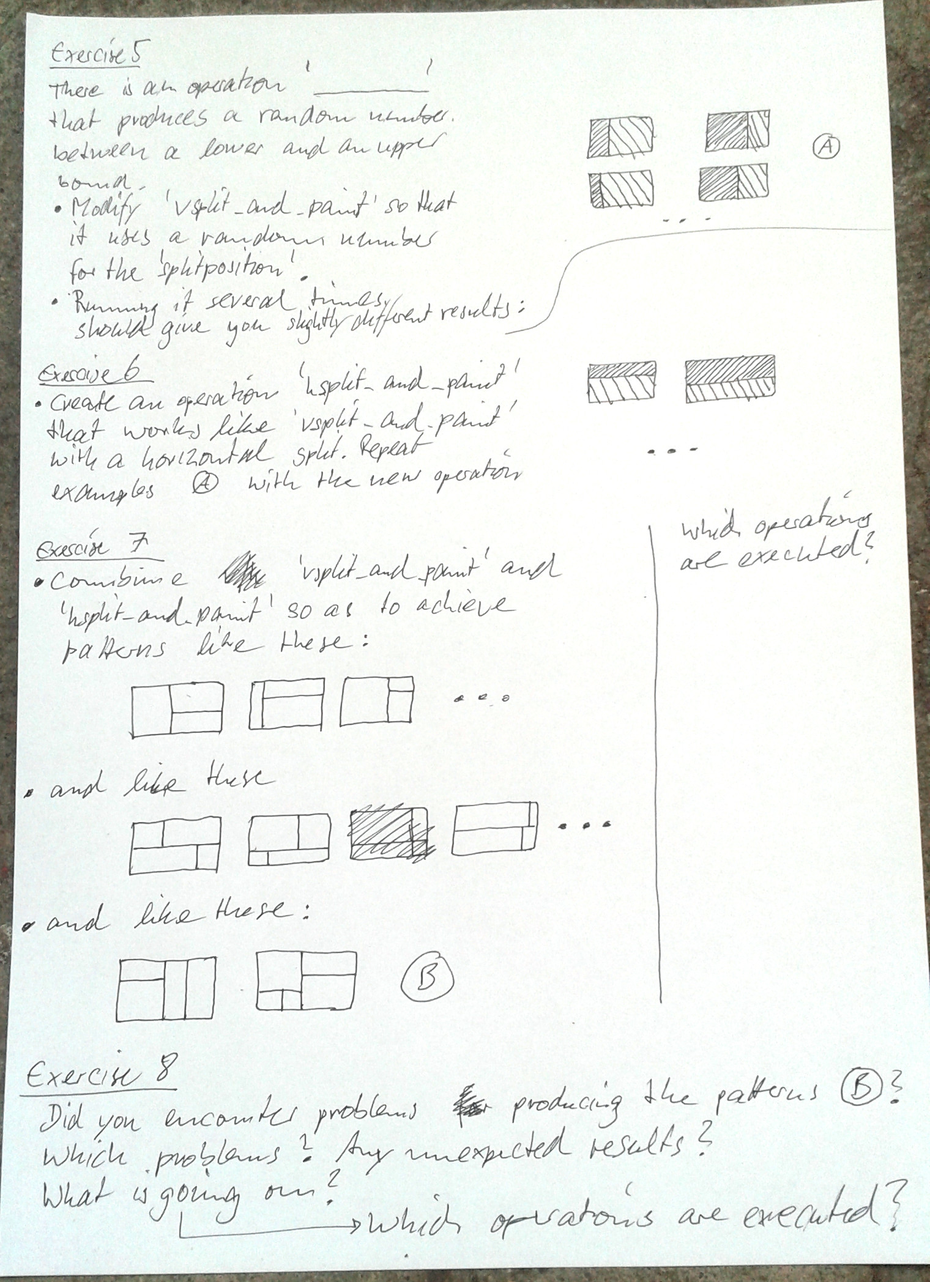
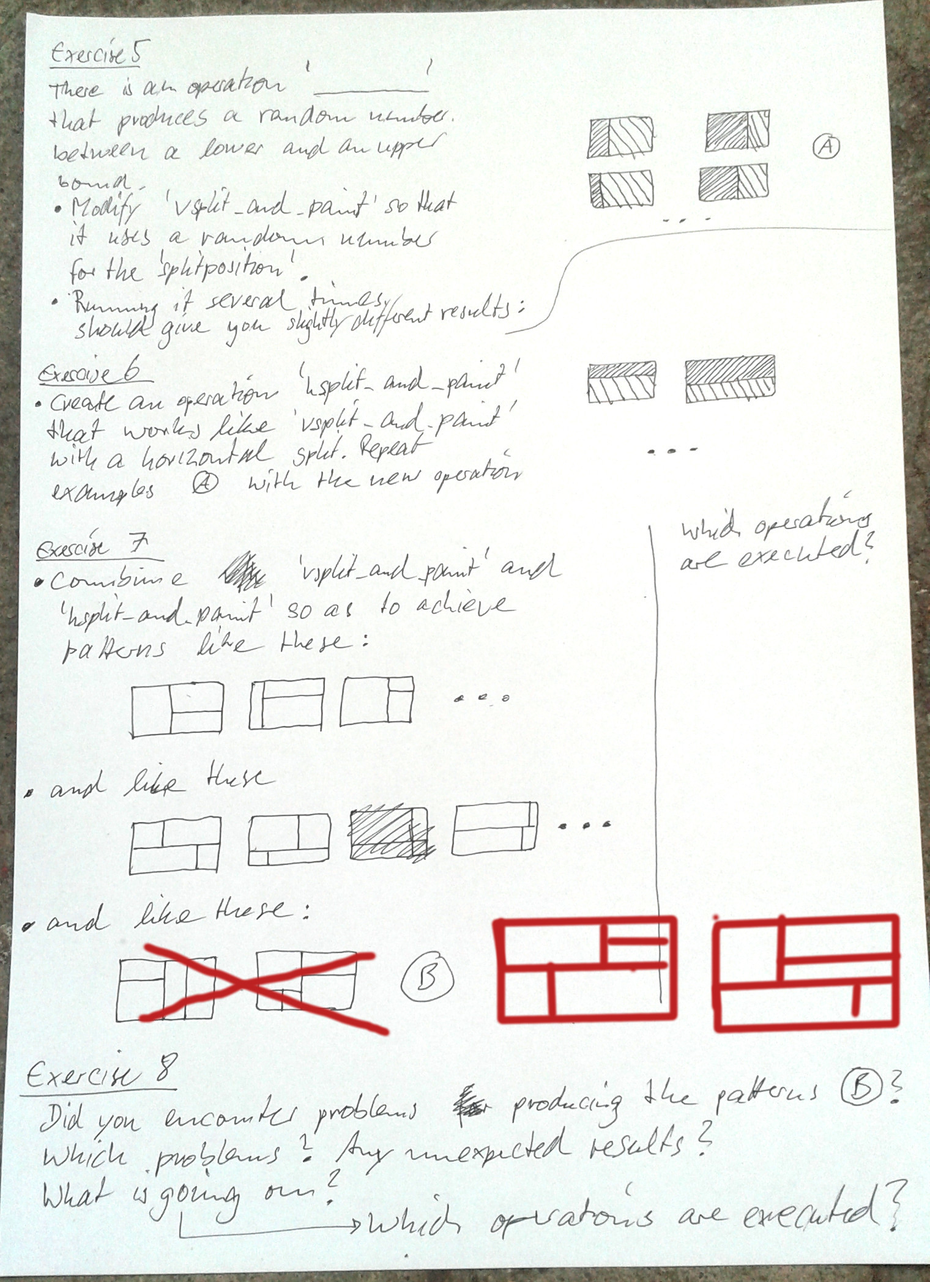
Mondrian: Outline instrct. steps, code links.

Changed region(s): [[0.5257, 0.7133, 0.9895, 0.8063], [0.1546, 0.7443, 0.4329, 0.8063], [0.1546, 0.7133, 0.1855, 0.7443]]

diff --git a/workshops/mondrian-pattern/README.md b/workshops/mondrian-pattern/README.md
@@ -90,17 +90,189 @@ There are other ways of achieving similar or the same type of pattern. Also, we 
 Exercises
 ---------
 
+Get rusty fingers now!
+
 * Make a new project (TODO: link to installfest instructuins)
-* Replace main.rs and Cargo.toml with the following starting point (TODO: link)
+* Open the files `main.rs` (in the subfoler `src`) and `Cargo.toml` in your text editor.
+* Replace all content in the open files with the content of the respective files linked here:
+    * [new main.rs](https://raw.githubusercontent.com/rust-community/rustbridge/389c0502113503eccae6626561920083959cbe07/workshops/mondrian-pattern/codebase/mondpaint/src/main.rs)
+    * [new Cargo.toml](https://raw.githubusercontent.com/rust-community/rustbridge/389c0502113503eccae6626561920083959cbe07/workshops/mondrian-pattern/codebase/mondpaint/Cargo.toml)
+* Save the files in your editor.
 * Execute the program and make sure you see a minimal mondrian pattern, i.e. a red rectangle.
 
-TODO: finalise instructions as sketched-out here
+![](images/fig00_exercise-start.jpg)
 
+
+### Exercise 1: Make one vertical split
+![](images/fig01_onevertical.jpg)
+
+
+#### [Instruction] 1
+
+
+#### [Snapshot] 1
+[view changes](https://github.com/rust-community/rustbridge/commit/754dc60730f0fd16f6001785aee533128326d6b5)
+|
+[download main.rs](https://raw.githubusercontent.com/rust-community/rustbridge/754dc60730f0fd16f6001785aee533128326d6b5/workshops/mondrian-pattern/codebase/mondpaint/src/main.rs)
+
+
+### Exercise 2:
+![](images/fig02_onevertical-1third-2thirds.jpg)
+
+#### [Snapshot] 2
+[view changes](https://github.com/rust-community/rustbridge/commit/1dcdf3125943137fb231e9514c73b5136e1206cb)
+|
+[download main.rs](https://github.com/rust-community/rustbridge/commit/1dcdf3125943137fb231e9514c73b5136e1206cb/workshops/mondrian-pattern/codebase/mondpaint/src/main.rs)
+
+
+### Exercise 3:
+
+TODO: Check example for exercise 3/4 -- there is one snapshot for two exercises, currently.
+
+![](images/fig03_colour-as-parameter.jpg)
+
+#### [Snapshot] 3
+[view changes](https://github.com/rust-community/rustbridge/commit/c24797b80d1f0c9039c722159e137dc531f140fb)
+|
+[download main.rs](https://github.com/rust-community/rustbridge/commit/c24797b80d1f0c9039c722159e137dc531f140fb/workshops/mondrian-pattern/codebase/mondpaint/src/main.rs)
+
+
+### Exercise 4:
+![](images/fig04_two-different-colours.jpg)
+
+#### [Snapshot] 4
+[view changes](https://github.com/rust-community/rustbridge/commit/c24797b80d1f0c9039c722159e137dc531f140fb)
+|
+[download main.rs](https://github.com/rust-community/rustbridge/commit/c24797b80d1f0c9039c722159e137dc531f140fb/workshops/mondrian-pattern/codebase/mondpaint/src/main.rs)
+
+
+#### [Testing] Exercise 4:  
+Error message after adding an extra parameter to `paint_rectangle`:
+```
+Compiling mondpaint v0.1.0 (file:///home/broe/projets/rustbridge/workshops/mondrian-pattern/codebase/mondpaint)
+src/main.rs:80:9: 80:57 error: this function takes 6 parameters but 5 parameters were supplied [E0061]
+src/main.rs:80         paint_rectangle(x, y, splitpos, height, chnleft)
+                    ^~~~~~~~~~~~~~~~~~~~~~~~~~~~~~~~~~~~~~~~~~~~~~~~
+src/main.rs:80:9: 80:57 help: run `rustc --explain E0061` to see a detailed explanation
+src/main.rs:80:9: 80:57 note: the following parameter types were expected: f64, f64, f64, f64, [f32; 4], std::sync::mpsc::Sender<([f64; 4], [f32; 4])>
+src/main.rs:85:9: 85:73 error: this function takes 6 parameters but 5 parameters were supplied [E0061]
+src/main.rs:85         paint_rectangle(x+splitpos, y, width-splitpos, height, chnright)
+                    ^~~~~~~~~~~~~~~~~~~~~~~~~~~~~~~~~~~~~~~~~~~~~~~~~~~~~~~~~~~~~~~~
+src/main.rs:85:9: 85:73 help: run `rustc --explain E0061` to see a detailed explanation
+src/main.rs:85:9: 85:73 note: the following parameter types were expected: f64, f64, f64, f64, [f32; 4], std::sync::mpsc::Sender<([f64; 4], [f32; 4])>
+error: aborting due to 2 previous errors
+error: Could not compile `mondpaint`.
+```
+
+
+### Exercise 5:
+![](images/fig05_random-splitpostition.jpg)
+
+For Exercice 5 we will use random numbers to make things more interesting.
+
+A coupple of things are already prepared in the example.
+There is a new operation for generating random numbers available: `rng.gen_range(0.0, 20.0)` will produce a random number between `0.0` and `20.0`.
+
+
+Currently this is deactivated by placing them in a _comment_:
+```
+// the remainder of a line after a double forward slash will be ignored
+
+/*
+Furthermore, everything between slash star and
+star slash is also ignored, even over multiple lines
+*/
+```
+
+#### [Instruction] 5
+1. Uncomment lines ____: `use rand::Rng;` and ____ `let mut rng = rand::thread_rng();   //init a random number generator`.
+
+2. Modify the operation `vsplit_and_paint` to generate a random split position. The value to be used as split position is calculated in line 76 `let splitpos = rng.gen_range(0.0, width);` Use the operation we just activated `rng.gen_range(...)`.
+
+#### [Snapshot] 5
+[view changes](https://github.com/rust-community/rustbridge/commit/30c7b9c62453ab456029ca480e07d7e33b5c0f93)
+|
+[download main.rs](https://github.com/rust-community/rustbridge/commit/30c7b9c62453ab456029ca480e07d7e33b5c0f93/workshops/mondrian-pattern/codebase/mondpaint/src/main.rs)
+
+
+
+### Exercise 6:
+![](images/fig06_horizontal-split.jpg)
+
+#### [Snapshot] 6
+[view changes](https://github.com/rust-community/rustbridge/commit/aae0b114be1d8996f18db88998d4fe0b3c047201)
+|
+[download main.rs](https://github.com/rust-community/rustbridge/commit/aae0b114be1d8996f18db88998d4fe0b3c047201/workshops/mondrian-pattern/codebase/mondpaint/src/main.rs)
+
+
+#### [Testing]
+After defininf the new operation `vsplit_and_paint`, build output should look like this:
+```
+Compiling mondpaint v0.1.0 (file:///home/broe/projets/rustbridge/workshops/mondrian-pattern/codebase/mondpaint)
+src/main.rs:23:1: 23:48 warning: constant item is never used: `GREEN`, #[warn(dead_code)] on by default
+src/main.rs:23 const GREEN:   [f32; 4] = [0.0, 1.0, 0.0, 1.0];
+            ^~~~~~~~~~~~~~~~~~~~~~~~~~~~~~~~~~~~~~~~~~~~~~~
+src/main.rs:25:1: 25:48 warning: constant item is never used: `YELLOW`, #[warn(dead_code)] on by default
+src/main.rs:25 const YELLOW:  [f32; 4] = [1.0, 1.0, 0.0, 1.0];
+            ^~~~~~~~~~~~~~~~~~~~~~~~~~~~~~~~~~~~~~~~~~~~~~~
+src/main.rs:91:1: 107:2 warning: function is never used: `hsplit_and_paint`, #[warn(dead_code)] on by default
+src/main.rs:91 fn hsplit_and_paint(x :f64, y :f64, width :f64, height :f64, chn: mpsc::Sender<(Rectangle, Color)>) {
+            ^
+ Finished debug [unoptimized + debuginfo] target(s) in 2.88 secs
+```
+
+
+### Exercise 7a:
+
+It is now time to test the new operation! Currently, `hsplit_and_paint` triggers `paint_rectangle` for both sides of the split: lines 79 (?) and 85 (?): `paint_rectangle(x, y, splitpos . . .` and `paint_rectangle(x+splitpo, y, . . .`. Modify `hsplit_and_paint` so that it triggers `paint_rectangle` on the left side of the split and `hsplit_and_paint` on the right side.
+
+![](images/fig07_vertical+horizontal-split.jpg)
+![](images/fig08_vertical+2horizontal-splits.jpg)
+
+#### [Snapshot] 7a
+[view changes](https://github.com/rust-community/rustbridge/commit/3249caaa11f91b34344999809294c1d05493b597)
+|
+[download main.rs](https://github.com/rust-community/rustbridge/commit/3249caaa11f91b34344999809294c1d05493b597/workshops/mondrian-pattern/codebase/mondpaint/src/main.rs)
+
+
+### Exercise 7b:
+![](images/fig09_nontricial-nested.jpg)
+
+#### [Snapshot] 7b
+[view changes](https://github.com/rust-community/rustbridge/commit/e84d28afedec182ac5d1a148f7602ce756c246bd)
+|
+[download main.rs](https://github.com/rust-community/rustbridge/commit/e84d28afedec182ac5d1a148f7602ce756c246bd/workshops/mondrian-pattern/codebase/mondpaint/src/main.rs)
+
+
+### Exercise 8:
+
+Option 1: Introduce more special operations
+Option 2:
+Try to use only the operations we have defined so far -- you will fail in a funny way!
+;-)
+
+#### [Snapshot] 8
+[view changes](https://github.com/rust-community/rustbridge/commit/560ef8cf6a9df67151bfa65bdab7a07655fcd77d)
+|
+[download main.rs](https://github.com/rust-community/rustbridge/commit/560ef8cf6a9df67151bfa65bdab7a07655fcd77d/workshops/mondrian-pattern/codebase/mondpaint/src/main.rs)
+
+
+
+### Exercise 9: Avoiding the infinite pattern generation process.
+
+#### [Snapshot] 9
+[view changes](https://github.com/rust-community/rustbridge/commit/6a51b31a396e7a9200ac21a0cc5ab574915a3b2f)
+|
+[download main.rs](https://github.com/rust-community/rustbridge/commit/6a51b31a396e7a9200ac21a0cc5ab574915a3b2f/workshops/mondrian-pattern/codebase/mondpaint/src/main.rs)
+
+
+
+### TODO: Integrate text instructions above.
 ![](images/exercises-a.jpg)
 ![](images/exercises-b.jpg)
 
-TODO: **Exercise 9:** Avoiding infinite recursive patterns.
 
+### TODO: Add instructions to keep track of operations executed. -- This may be better placed in the beginning, before coding.
 
 
 Beyond this Workshop
